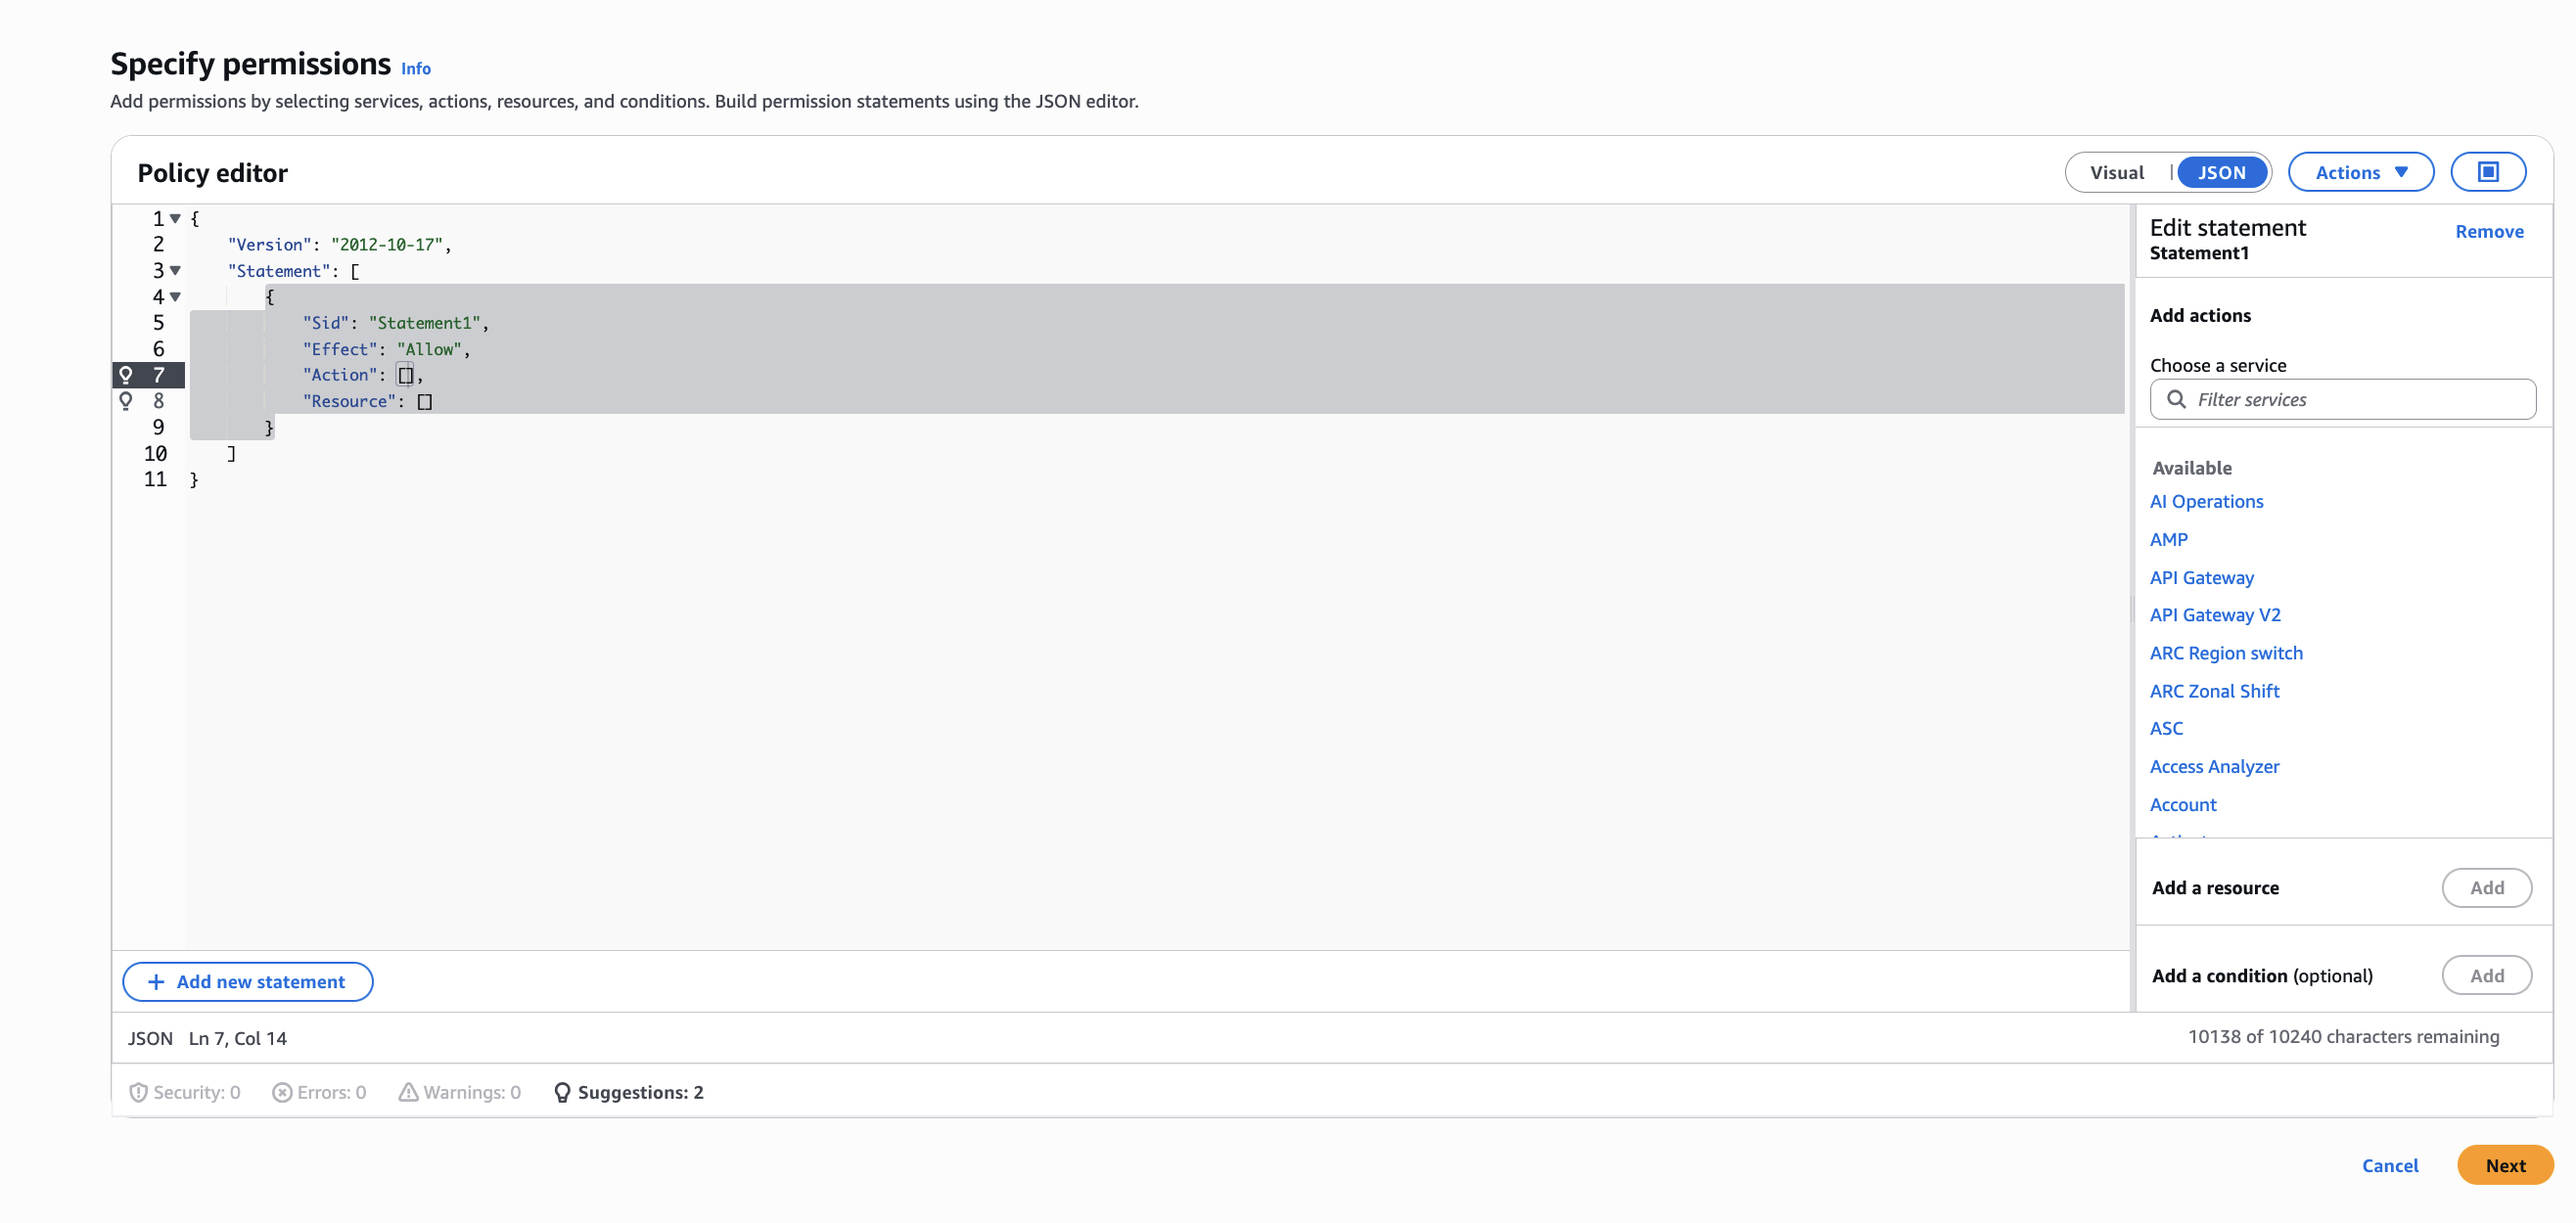
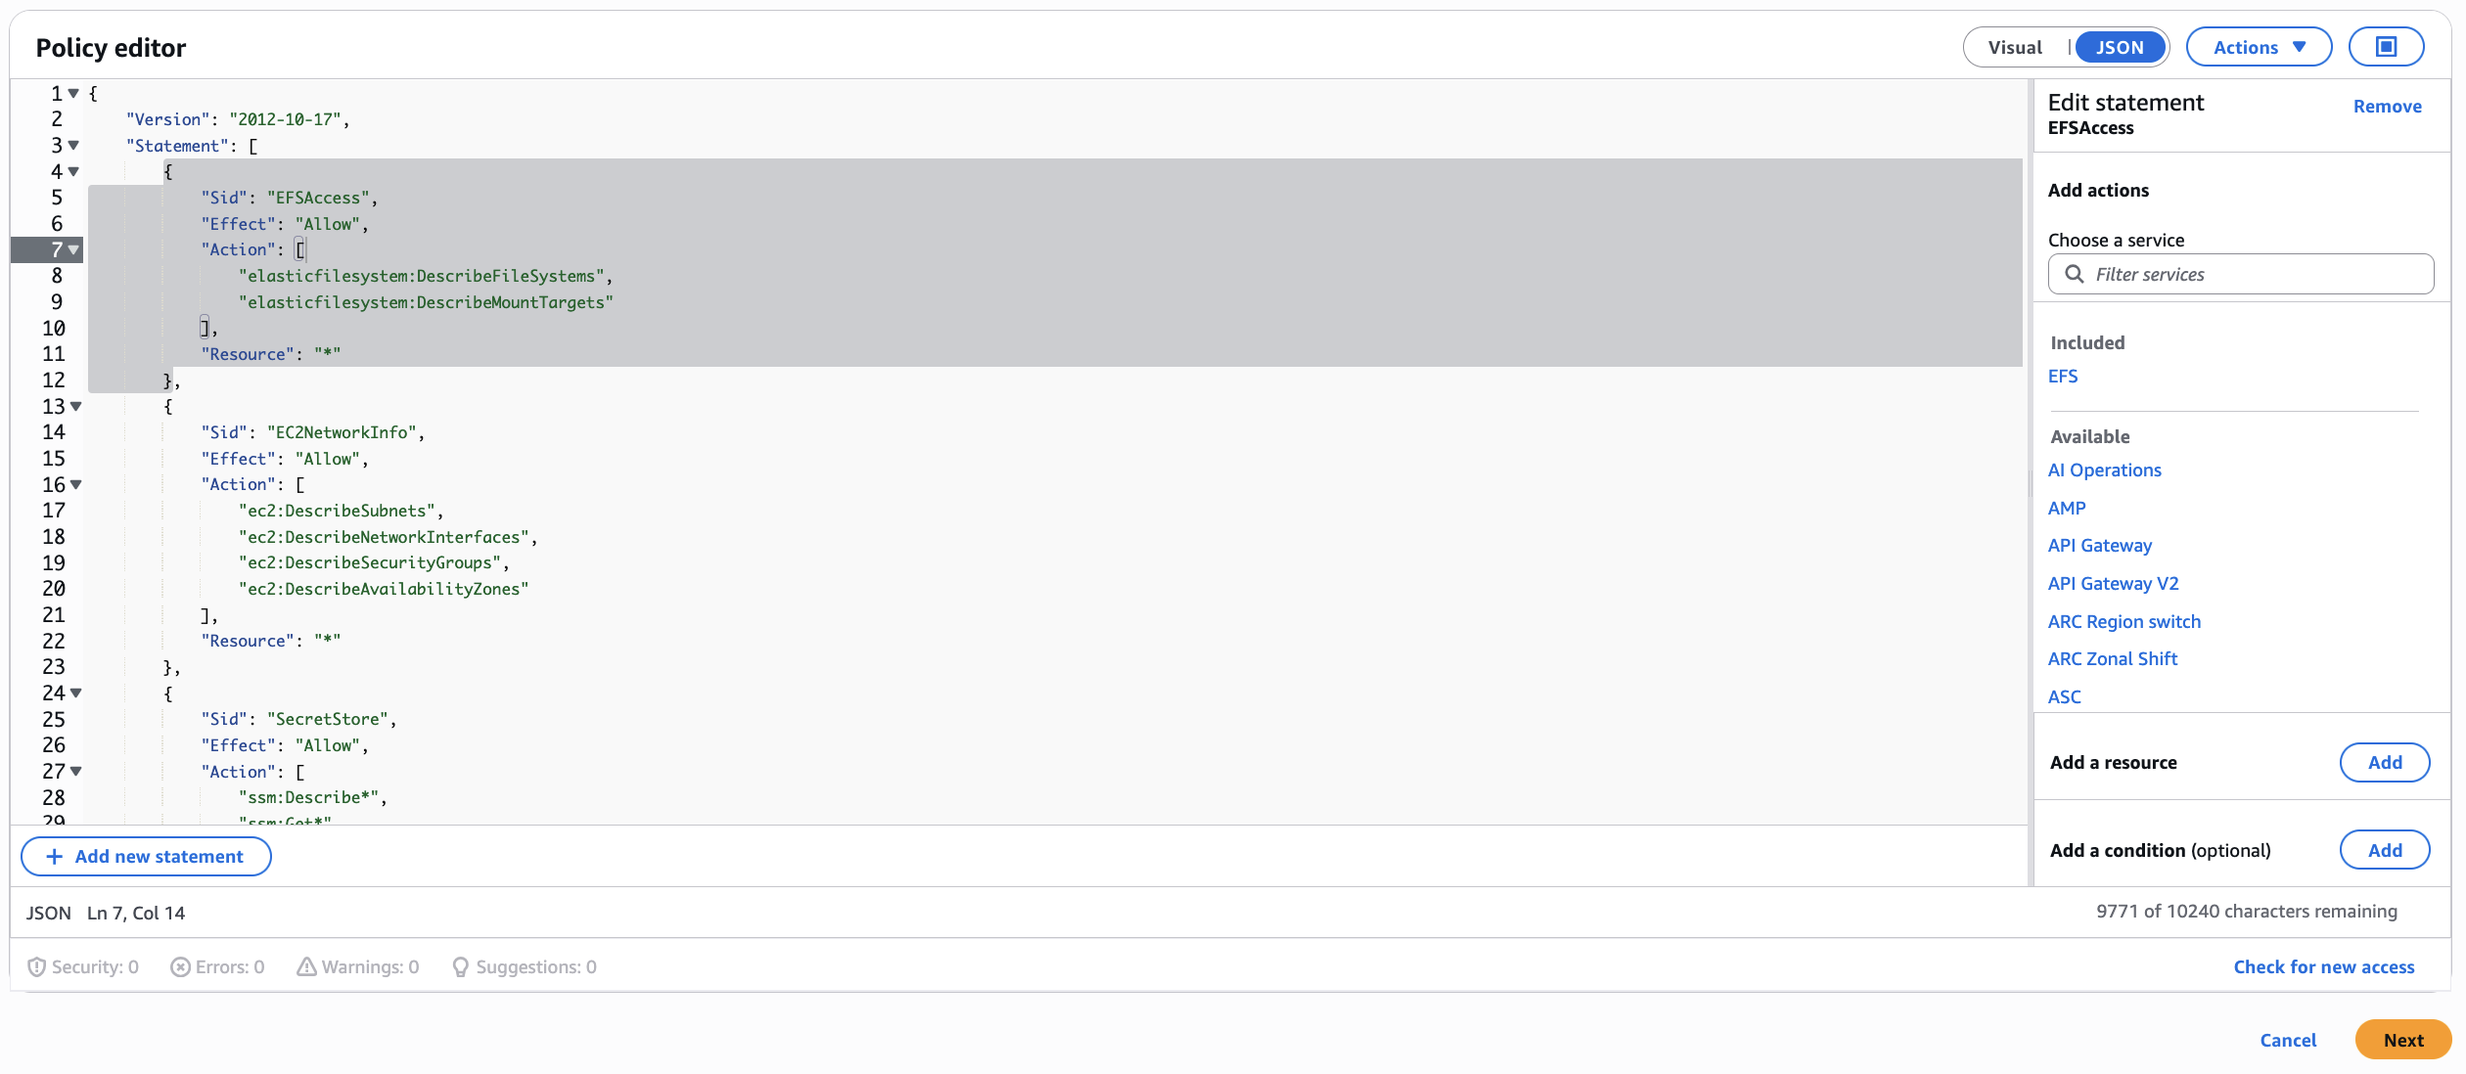
fix: ajustar documentacao + adicionar secrets

diff --git a/Wordpress/README.md b/Wordpress/README.md
@@ -15,15 +15,15 @@ E usaremos os seguintes serviços da AWS:
 - Auto Scaling group
 - EC2
 
-## Etapa 0: Criação do perfil IAM
+## Etapa 1: Criação do perfil IAM
 
-Para que a instância da EC2 possa montar o EFS, ela precisa ter permissão. Para isso, vamos criar uma função. Para isso, vá para IAM > Roles > Create Role. Selecione Trusted Entity Type: AWS Service e selecione EC2. 
+Precisamos criar um perfil para que a instância EC2 possa acessas segredos do Parameter Store e montar o EFS. Para isso, vamos criar uma função. Vá para IAM > Roles > Create Role. Selecione Trusted Entity Type: AWS Service e selecione EC2. 
 
 Adicione um nome e finalize a criação sem adicionar permissões ainda, vamos adicionar uma inline depois.
 
 Agora entre em IAM > Roles e procure a role que criamos agora, clique na role pra abrir ela. Depois, clique em add permissions e Create Inline Policy.
 
-![alt text](./arquivos/image-28.png)
+![](./arquivos/image-28.png)
 
 Ao entrar na página, selecione a edição por JSON e copie o conteúdo do arquivo inline-policy.json para dentro do editor. Vá para o próximo passo e coloque um nome adequado para a permissão.
 
@@ -31,7 +31,16 @@ Ao entrar na página, selecione a edição por JSON e copie o conteúdo do arqui
 
 Agora estamos prontos para começar a implantar os serviços.
 
-## Etapa 1: Criação e configuração da VPC
+## Etapa 2: Criação de Segredos
+
+Para criar segredos, entre em AWS Systems Manager > Parameter Store > Create Parameter. Aqui você vai escolher a senha do banco de dados que vamos criar futuramente, então salve essa senha em algum lugar para usar depois. Configure conforme a imagem abaixo, alterando a senha.
+
+![](./arquivos/image-32.png)
+
+Além disso, crie a variável para o nome o usuário do banco de dados.
+
+
+## Etapa 3: Criação e configuração da VPC
 
 É necessário criar uma VPC com seis subnets, sendo quatro privadas e duas públicas. Para isso, entre no painel da AWS e procure por VPC. Entre no dashboard de VPC. Por hora, devemos deixar a opção de NAT gateway desativada, vou ativar mais pra frente para evitar custos adicionais enquanto fazemos as configurações básicas.
 
@@ -63,7 +72,7 @@ Após a criação do NAT Gateway, precisamos configurar as route tables para red
 
 ![](./arquivos/image-26.png)
 
-## Etapa 2: Criação do RDS
+## Etapa 4: Criação do RDS
 
 Antes de criar uma instância da RDS, é necessário criar um grupo de subnets, que é basicamente onde a instância estará disponível. Conforme o diagrama, a instância deverá estar em uma subnet privada isolada (selecione as duas subnets que restaram, as que não tem acesso a internet). Para isso, basta entrar no dashboard do RDS e selecionar Create DB Subnet Group. A AWS te obriga a criar em duas AZ diferente, portanto, terei de fazer uma sutil alteração do projeto do diagrama . Seu grupo deve ficar conforme a imagem abaixo.
 
@@ -72,8 +81,8 @@ Antes de criar uma instância da RDS, é necessário criar um grupo de subnets, 
 Após a criação do grupo, podemos criar o RDS. A configuração é bem simples, você deve ir para o dashboard Aurora e RDS, clicar na opção de criar um database. Na interface de criação, você deve selecionar a opção Standard create e a engine MySQL. Além disso, você deve selecionar a opção free tier. Como a tarefa pediu, selecionei a opção de single-AZ. Após isso, basta configurar as informações do banco de dados. É recomendado utilizar as seguintes variaveis:
 
 - DB instance identifier: wordpress
-- Master username: admin
-- Master password: DbAtTesteProjeto2
+- Master username: Utilizar o usuário que froi criado no parameter store.
+- Master password: Utilizar a senha que foi criada no parameter store.
 
 
 Caso você decida alterar essas variáveis será importante alterar no docker-compose em um passo futuro, para garantir que o WordPress seja capaz de se conectar com o banco corretamente. Além disso, você deve usar uma instância do tipo db.t3.micro.
@@ -89,7 +98,7 @@ Após criar o banco, precisamos configurar o security group do RDS. Para isso, v
 
 ![Alterando SG RDS](./arquivos/image-10.png)
 
-## Etapa 3: Criação do EFS
+## Etapa 5: Criação do EFS
 
 Para criar o EFS, você deve procurar na barra de pesquisa "EFS". Ao entrar na página, você deve clicar em Create File system e colocar o nome desejado (recomendo seguir o da imagem abaixo para evitar problemas). Selecione a VPC que foi criada anteriormente.
 
@@ -104,7 +113,7 @@ Além disso, devemos selecionar o security group que criamos para o EFS mais ced
 ![Criação dos mount targets](./arquivos/image-8.png)
 
 
-## Etapa 4: Criação do target group
+## Etapa 6: Criação do target group
 Vamos criar o load balancer agora, pois precisamos do DNS do load balancer pra configurar corretamente o Wordpress (evitar problemas com DNS).
 
 Antes de criar o load balancer, precisamos criar um target group. Para isso, vá em EC2 > Target Groups. Clique em criar target group.
@@ -115,7 +124,7 @@ Coloque um nome, a VPC criada e coloque a rota /health.html no health check path
 
 Vá para o próximo passo e finalize o target group (não selecione instância ainda).
 
-## Etapa 5: Criação do load balancer
+## Etapa 7: Criação do load balancer
 
 Entre em EC2 > Load balancers > Create load balancer. Selecione Application Load Balancer.
 
@@ -131,7 +140,7 @@ Por final, clique em criar load balancer.
 
 Espere a finalização da criação do load balancer e copie o DNS dele. Você vai precisar disso para configurar o docker-compose.
 
-## Etapa 6: Criação da EC2
+## Etapa 8: Criação da EC2
 
 Para criar as instâncias, decidi criar uma imagem que contenha o docker instalado e tudo configurado para facilitar o uso do autoscaling.
 
@@ -143,12 +152,14 @@ Por hora, vamos colocar essa instância em uma subnet pública, assim, poderemos
 
 ![Network config ec2](./arquivos/image-6.png)
 
-Insira o userdata.sh no campo do userdata na aws. É importante você substituir os dados do docker-compose que está dentro do user data pelos seus dados, principalmente o campo meu-loadbalancer-dns.
+Após configurar a rede, você deve selecionar o IAM Instance Profile para o que criamos no passo 1.
+
+Insira o userdata.sh no campo do userdata na aws. É importante você substituir os dados do docker-compose que está dentro do user data pelos seus dados, principalmente o campo meu-loadbalancer-dns e o DNS do EFS.
 
 **NÃO ESQUEÇA DE ALTERAR AS VARIÁVEIS!!**
 ![](./arquivos/image-30.png)
 
-## Etapa 7: Criação da AMI
+## Etapa 9: Criação da AMI
 
 Agora que configuramos a máquina corretamente, podemos criar uma imagem baseada nessa EC2. Para isso, entre em EC2 > Instances e selecione a instância que fizemos as mudanças.
 
@@ -158,7 +169,7 @@ Após clicar, você preenche os dados para criar conforme a imagem abaixo. E cli
 
 ![Create AMI Config](./arquivos/image-14.png)
 
-## Etapa 8: Criação do Launch Template.
+## Etapa 10: Criação do Launch Template.
 Com a imagem em mãos, podemos criar um Launch Template. Entre em EC2 > Launch templates > Create launch template. Preencha com o nome e escolha a imagem que criamos no passo anterior.
 
 Selecione o tipo de instância t2.micro. Além disso, coloque uma chave SSH (de preferência a mesma chave que você usou para configurar a bastion) para caso você precise fazer alguma alteração direto na máquina. Sua configuração deve ficar dessa forma:
@@ -168,7 +179,7 @@ Selecione o tipo de instância t2.micro. Além disso, coloque uma chave SSH (de 
 Por último, você deve associar a função que criamos na Etapa 0. Vá até o final da página e selecione em configurações adicionais.
 
 ![alt text](./arquivos/image-31.png)
-## Etapa 9: Criação do autoscaling group
+## Etapa 11: Criação do autoscaling group
 
 Para criar o ASG, você deve entrar em EC2 > Auto Scaling groups > Create Auto Scaling group. Preencha com um nome e selecione o template que criamos no passo anterior. Clique em próximo.
 
@@ -184,7 +195,7 @@ Você pode ir para o passo 4. Lá você irá configurar a scaling policy, onde o
 
 Por fim, clique em ir para revisão e finalize a criação do ASG.
 
-## Etapa 10: Teste!
+## Etapa 12: Teste!
 
 Para testar se sua infraestrutura está funcionando, você deve acessar o DNS do load balancer. Se tudo estiver funcionando, o site do wordpress deverá aparecer lhe dando a opção de criar uma conta.
 
